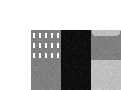
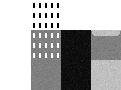
Lights work
Lights still need to be sorted, but my battery is almost dead

diff --git a/Main.cpp b/Main.cpp
@@ -15,6 +15,9 @@ void collide(City& pCity, sf::Vector3f& pPos, sf::Vector3f& pVel);
 void genCube(sf::VertexArray& pVert, int pIndex, Block pBlock, sf::Vector3f pPlayerPos, sf::Vector3f pPlayerRot, sf::Vector3f pObjPos, sf::Vector2u pWinSize);
 
 
+void genLights(sf::VertexArray& pVert, int pIndex, Block pBlock, sf::Vector3f pPlayerPos, sf::Vector3f pPlayerRot, sf::Vector3f pObjPos, sf::Vector2i pLightPos, sf::Vector2i pLightSize, sf::Vector2u pWinSize, bool pXLightState, bool pZLightState);
+
+
 bool project(sf::Vertex& pVert, sf::Vector3f pPlayerPos, sf::Vector3f pPlayerRot, sf::Vector3f pObjPos, sf::Vector2u pWinPos);
 
 
@@ -24,17 +27,19 @@ void loadBlockTemplates(std::vector<Block>& pBlocks);
 int main()
 {
     sf::RenderWindow win(sf::VideoMode(800, 600), "");
+    sf::RenderTexture buildTex;
+    sf::Shader shader;
     sf::View view;
     sf::Clock timer;
-    sf::VertexArray vert;
+    sf::VertexArray vert, lVert;
     sf::Texture tex;
     sf::Color bg(255, 127, 255);
-    sf::RectangleShape overlay;
+    sf::RectangleShape overlay, buildRect;
 
     sf::Vector3f pos(-50.f, 100.f, -50.f), vel, rot(225.f, -45.f, 0.f);
     sf::Vector2i mousePos(win.getSize().x / 2, win.getSize().y / 2);
 
-    sf::Vector3i size(21, 10, 21);
+    sf::Vector3i size(11, 7, 11);
     City city(size);
     std::vector<Vec3Dist> reorder;
     std::vector<Block> templates;
@@ -43,17 +48,33 @@ int main()
     unsigned long long ticks = 0;
     bool focus = false, click = false, paused = false;
 
+    Block block;
+
+    if (!shader.loadFromFile("shader.frag", sf::Shader::Fragment))
+        return EXIT_FAILURE;
     win.setFramerateLimit(60);
     win.setMouseCursorVisible(false);
     sf::Mouse::setPosition(sf::Vector2i(win.getSize().x / 2, win.getSize().y / 2), win);
-    reorder.resize(size.x * size.y * size.z);
     vert.setPrimitiveType(sf::Quads);
+    lVert.setPrimitiveType(sf::Quads);
     loadBlockTemplates(templates);
     city.setTemplatePtr(&templates);
     city.generate(time(0));
     tex.loadFromFile("res/blocks.png");
     overlay.setFillColor(sf::Color(0, 0, 0, 96));
     vert.resize(size.x * size.y * size.z * 4 * 3 * 2);
+    reorder.resize(size.x * size.y * size.z);
+
+    count = 0;
+    for (int x = 0; x < size.x; x++)
+        for (int y = 0; y < size.y; y++)
+            for (int z = 0; z < size.z; z++)
+            {
+                block = city.getBlock(x, y, z);
+                if (block.isSolid)
+                    count += block.lights.size();
+            }
+    lVert.resize(count * 4);
 
     while (win.isOpen())
     {
@@ -101,14 +122,38 @@ int main()
             getInput(win, vel, rot, mousePos, delta);
         collide(city, pos, vel);
 
+        for (int x = 0; x < size.x; x++)
+            for (int y = 0; y < size.y; y++)
+                for (int z = 0; z < size.z; z++)
+                {
+                    block = city.getBlock(x, y, z);
+                    for (int i = 0; i < block.lights.size(); i++)
+                        if (rand() % 100 == 0)
+                            city.getBlockPtr(x, y, z)->toggle(i);
+                }
+
         view.reset(sf::FloatRect(0, 0, win.getSize().x, win.getSize().y));
         win.setView(view);
 
         win.setTitle("3D City | FPS: " + (delta ? std::to_string(1000 / delta) : "Infinity"));
 
-        win.clear(bg);
-
         city.calcVis(reorder, pos);
+
+        count = 0;
+        for (int x = 0; x < size.x; x++)
+            for (int y = 0; y < size.y; y++)
+                for (int z = 0; z < size.z; z++)
+                {
+                    block = city.getBlock(x, y, z);
+                    if (block.isSolid)
+                    {
+                        for (int i = 0; i < block.lights.size(); i += 2)
+                        {
+                            genLights(lVert, count, block, pos, rot, sf::Vector3f(x, y, z), block.lights[i].pos, block.lights[i].size, win.getSize(), block.lights[i].state, block.lights[i + 1].state);
+                            count += 4 * 2;
+                        }
+                    }
+                }
 
         count = 0;
         for (int x = 0; x < size.x; x++)
@@ -132,7 +177,16 @@ int main()
                         count += 2;
                     }
 
-        win.draw(vert, &tex);
+        buildTex.create(win.getSize().x, win.getSize().y);
+        buildTex.clear();
+        buildTex.draw(vert, &tex);
+        buildTex.display();
+        buildRect.setSize(sf::Vector2f(win.getSize()));
+        buildRect.setTexture(&buildTex.getTexture());
+
+        win.clear(bg);
+        win.draw(lVert);
+        win.draw(buildRect, &shader);
 
         if (paused)
         {
@@ -144,6 +198,8 @@ int main()
 
         for (int i = 0; i < vert.getVertexCount(); i++)
             vert[i] = sf::Vertex();
+        for (int i = 0; i < lVert.getVertexCount(); i++)
+            lVert[i] = sf::Vertex();
         for (int i = 0; i < reorder.size(); i++)
             reorder[i] = Vec3Dist();
     }
@@ -311,9 +367,9 @@ void loadBlockTemplates(std::vector<Block>& pBlocks)
             file >> name;
             pBlocks[i].type = i;
             pBlocks[i].isSolid = solid;
-            pBlocks[i].lights.resize(lightCount);
-            for (int ii = 0; ii < lightCount; ii++)
-                pBlocks[i].lights[ii] = Light(lights[ii]);
+            pBlocks[i].lights.resize(lightCount * 2);
+            for (int ii = 0; ii < lightCount * 2; ii++)
+                pBlocks[i].lights[ii] = Light(lights[ii / 2]);
             pBlocks[i].name = name;
         }
     }
@@ -405,3 +461,66 @@ void collide(City& pCity, sf::Vector3f& pPos, sf::Vector3f& pVel)
         pVel.z = 0;
     }
 }
+
+
+void genLights(sf::VertexArray& pVert, int pIndex, Block pBlock, sf::Vector3f pPlayerPos, sf::Vector3f pPlayerRot, sf::Vector3f pObjPos, sf::Vector2i pLightPos, sf::Vector2i pLightSize, sf::Vector2u pWinSize, bool pXLightState, bool pZLightState)
+{
+    float scale = 10.f;
+    if (pBlock.visXP && pPlayerPos.x > (pObjPos.x + 0.5f) * scale)
+    {
+        if (/**/project(pVert[pIndex + 0], pPlayerPos, pPlayerRot, sf::Vector3f(pObjPos.x + 0.5f, pObjPos.y + 0.5f - (pLightPos.y + pLightSize.y) / 30.f, pObjPos.z + 0.5f - (pLightPos.x) / 30.f),                pWinSize) &&
+                project(pVert[pIndex + 1], pPlayerPos, pPlayerRot, sf::Vector3f(pObjPos.x + 0.5f, pObjPos.y + 0.5f - (pLightPos.y + pLightSize.y) / 30.f, pObjPos.z + 0.5f - (pLightPos.x + pLightSize.x) / 30.f), pWinSize) &&
+                project(pVert[pIndex + 2], pPlayerPos, pPlayerRot, sf::Vector3f(pObjPos.x + 0.5f, pObjPos.y + 0.5f - (pLightPos.y) / 30.f,                pObjPos.z + 0.5f - (pLightPos.x + pLightSize.x) / 30.f), pWinSize) &&
+                project(pVert[pIndex + 3], pPlayerPos, pPlayerRot, sf::Vector3f(pObjPos.x + 0.5f, pObjPos.y + 0.5f - (pLightPos.y) / 30.f,                pObjPos.z + 0.5f - (pLightPos.x) / 30.f),                pWinSize))
+        {
+            for (int i = 0; i < 4; i++)
+                pVert[pIndex + 0 + i].color = sf::Color(255 * pXLightState, 255 * pXLightState, 255 * pXLightState);
+        }
+        else
+            for (int i = 0; i < 4; i++)
+                pVert[pIndex + 0 + i] = sf::Vertex();
+    }
+    else if (pBlock.visXN && pPlayerPos.x < (pObjPos.x + 0.5f) * scale)
+    {
+        if (/**/project(pVert[pIndex + 0], pPlayerPos, pPlayerRot, sf::Vector3f(pObjPos.x - 0.5f, pObjPos.y + 0.5f - (pLightPos.y + pLightSize.y) / 30.f, pObjPos.z + 0.5f - (pLightPos.x) / 30.f),                pWinSize) &&
+                project(pVert[pIndex + 1], pPlayerPos, pPlayerRot, sf::Vector3f(pObjPos.x - 0.5f, pObjPos.y + 0.5f - (pLightPos.y + pLightSize.y) / 30.f, pObjPos.z + 0.5f - (pLightPos.x + pLightSize.x) / 30.f), pWinSize) &&
+                project(pVert[pIndex + 2], pPlayerPos, pPlayerRot, sf::Vector3f(pObjPos.x - 0.5f, pObjPos.y + 0.5f - (pLightPos.y) / 30.f,                pObjPos.z + 0.5f - (pLightPos.x + pLightSize.x) / 30.f), pWinSize) &&
+                project(pVert[pIndex + 3], pPlayerPos, pPlayerRot, sf::Vector3f(pObjPos.x - 0.5f, pObjPos.y + 0.5f - (pLightPos.y) / 30.f,                pObjPos.z + 0.5f - (pLightPos.x) / 30.f),                pWinSize))
+        {
+            for (int i = 0; i < 4; i++)
+                pVert[pIndex + 0 + i].color = sf::Color(255 * pXLightState, 255 * pXLightState, 255 * pXLightState);
+        }
+        else
+            for (int i = 0; i < 4; i++)
+                pVert[pIndex + 0 + i] = sf::Vertex();
+    }
+    if (pBlock.visZP && pPlayerPos.z > (pObjPos.z + 0.5f) * scale)
+    {
+        if (/**/project(pVert[pIndex + 4], pPlayerPos, pPlayerRot, sf::Vector3f(pObjPos.x + 0.5f - (pLightPos.x) / 30.f,                pObjPos.y + 0.5f - (pLightPos.y + pLightSize.y) / 30.f, pObjPos.z + 0.5f), pWinSize) &&
+                project(pVert[pIndex + 5], pPlayerPos, pPlayerRot, sf::Vector3f(pObjPos.x + 0.5f - (pLightPos.x + pLightSize.x) / 30.f, pObjPos.y + 0.5f - (pLightPos.y + pLightSize.y) / 30.f, pObjPos.z + 0.5f), pWinSize) &&
+                project(pVert[pIndex + 6], pPlayerPos, pPlayerRot, sf::Vector3f(pObjPos.x + 0.5f - (pLightPos.x + pLightSize.x) / 30.f, pObjPos.y + 0.5f - (pLightPos.y) / 30.f,                pObjPos.z + 0.5f), pWinSize) &&
+                project(pVert[pIndex + 7], pPlayerPos, pPlayerRot, sf::Vector3f(pObjPos.x + 0.5f - (pLightPos.x) / 30.f,                pObjPos.y + 0.5f - (pLightPos.y) / 30.f,                pObjPos.z + 0.5f), pWinSize))
+        {
+            for (int i = 0; i < 4; i++)
+                pVert[pIndex + 4 + i].color = sf::Color(255 * pXLightState, 255 * pXLightState, 255 * pXLightState);
+        }
+        else
+            for (int i = 0; i < 4; i++)
+                pVert[pIndex + 4 + i] = sf::Vertex();
+    }
+    else if (pBlock.visZN && pPlayerPos.z < (pObjPos.z + 0.5f) * scale)
+    {
+        if (/**/project(pVert[pIndex + 4], pPlayerPos, pPlayerRot, sf::Vector3f(pObjPos.x + 0.5f - (pLightPos.x) / 30.f,                pObjPos.y + 0.5f - (pLightPos.y + pLightSize.y) / 30.f, pObjPos.z - 0.5f), pWinSize) &&
+                project(pVert[pIndex + 5], pPlayerPos, pPlayerRot, sf::Vector3f(pObjPos.x + 0.5f - (pLightPos.x + pLightSize.x) / 30.f, pObjPos.y + 0.5f - (pLightPos.y + pLightSize.y) / 30.f, pObjPos.z - 0.5f), pWinSize) &&
+                project(pVert[pIndex + 6], pPlayerPos, pPlayerRot, sf::Vector3f(pObjPos.x + 0.5f - (pLightPos.x + pLightSize.x) / 30.f, pObjPos.y + 0.5f - (pLightPos.y) / 30.f,                pObjPos.z - 0.5f), pWinSize) &&
+                project(pVert[pIndex + 7], pPlayerPos, pPlayerRot, sf::Vector3f(pObjPos.x + 0.5f - (pLightPos.x) / 30.f,                pObjPos.y + 0.5f - (pLightPos.y) / 30.f,                pObjPos.z - 0.5f), pWinSize))
+        {
+            for (int i = 0; i < 4; i++)
+                pVert[pIndex + 4 + i].color = sf::Color(255 * pXLightState, 255 * pXLightState, 255 * pXLightState);
+        }
+        else
+            for (int i = 0; i < 4; i++)
+                pVert[pIndex + 4 + i] = sf::Vertex();
+    }
+}
+

diff --git a/City.cpp b/City.cpp
@@ -87,6 +87,14 @@ Block City::getBlock(sf::Vector3i pPos)
 }
 
 
+Block* City::getBlockPtr(int pX, int pY, int pZ)
+{
+    if (pX < 0 || pY < 0 || pZ < 0 || pX >= size.x || pY >= size.y || pZ >= size.z)
+        return &(*templatePtr)[0];
+    return &blocks[pX][pY][pZ];
+}
+
+
 void City::setTemplatePtr(std::vector<Block>* pTemplatePtr)
 {
     templatePtr = pTemplatePtr;

diff --git a/City.h b/City.h
@@ -19,6 +19,8 @@ class City
         Block getBlock(int pX, int pY, int pZ);
         Block getBlock(sf::Vector3i ppos);
 
+        Block* getBlockPtr(int pX, int pY, int pZ);
+
         void setTemplatePtr(std::vector<Block>* pTemplatePtr);
 
     private:
